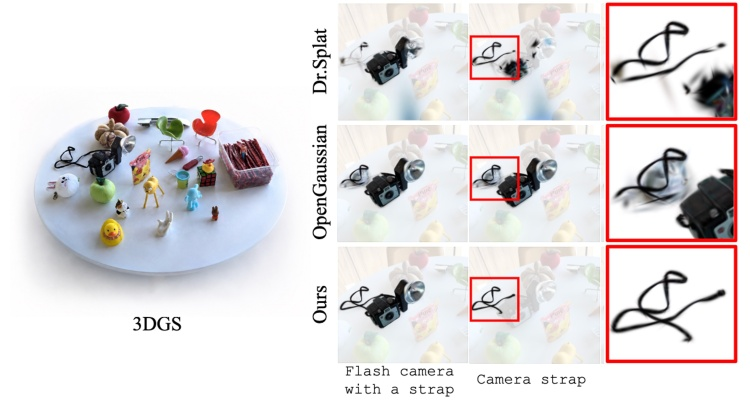
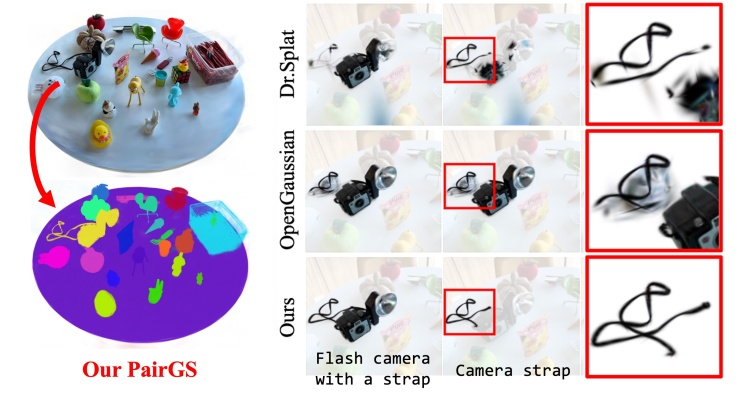
update/fix publications

diff --git a/publications.html b/publications.html
@@ -75,6 +75,7 @@
 				<em>Winter Conf. on Applications of Computer Vision (<b>WACV</b>), 2027</em>
 			</p>
 			<p>
+				<a href="https://knt0613pow.github.io/DCF-3DGS" target="_blank" class="btn btn-outline-secondary btn-sm" role="button"> Project Page</a>
 				<a class="btn btn-outline-secondary btn-sm" role="button" data-bs-toggle="collapse" data-bs-target="#Kim_DistractorAware_WACV_2027_bibtex_button" aria-expanded="false" aria-controls="Kim_DistractorAware_WACV_2027_bibtex_button">BibTeX</a>
 			</p>
 			<div class="collapse" id="Kim_DistractorAware_WACV_2027_bibtex_button">
@@ -137,6 +138,32 @@
 
 <div class="container">
 	<div class="row gx-5 gy-4">
+		<div class="col-lg-4 text-center" id="Park_MixPT_arXiv_2026">
+			<img src="publications/data/26_arxiv11.jpg" class="img-fluid rounded float-center img-thumbnail shadow mb-3">
+			<h4 class="em-tight">MixPT: Point Transformer with Interleaved Window and Global Attention</h4>
+			<p class="text-muted">
+				and Minkyun Seo, Hyungtae Lim, <b>Jaesik Park</b>.
+				<em>2610.31455 (arXiv), 2026</em>
+			</p>
+			<p>
+				<a href="https://minkyunseo.github.io/MixPT" target="_blank" class="btn btn-outline-secondary btn-sm" role="button"> Project Page</a>
+				<a class="btn btn-outline-secondary btn-sm" role="button" data-bs-toggle="collapse" data-bs-target="#Park_MixPT_arXiv_2026_bibtex_button" aria-expanded="false" aria-controls="Park_MixPT_arXiv_2026_bibtex_button">BibTeX</a>
+			</p>
+			<div class="collapse" id="Park_MixPT_arXiv_2026_bibtex_button">
+				<div class="card">
+					<div class="card-body">
+						<p class="card-text text-start fw-lighter">
+							@article{Park_MixPT_arXiv_2026,<br>
+							Title={MixPT: Point Transformer with Interleaved Window and Global Attention},<br>
+							Author={Minkyun Seo, Hyungtae Lim, Jaesik Park},<br>
+							Journal={2610.31455 (arXiv)},<br>
+							Year={2026}<br>
+							}
+						</p>
+					</div>
+				</div>
+			</div>
+		</div>
 		<div class="col-lg-4 text-center" id="Lee_Beyond_arXiv_2026">
 			<img src="publications/data/26_arxiv10.jpg" class="img-fluid rounded float-center img-thumbnail shadow mb-3">
 			<h4 class="em-tight">Beyond the Current Scene: Event-Referential Grasping with Active View Selection</h4>
@@ -1020,7 +1047,7 @@
 		</div>
 		<div class="col-lg-4 text-center" id="Seo_BUFFERX_ICCV_2025">
 			<img src="publications/data/25_arxiv2.jpg" class="img-fluid rounded float-center img-thumbnail shadow mb-3">
-			<h4 class="em-tight">BUFFER-X: Towards Zero-Shot Point Cloud Registration in Diverse Scenes</h4>
+			<h4 class="em-tight">BUFFER-X: Toward Zero-Shot Point Cloud Registration in Diverse Scenes</h4>
 			<p class="text-muted">
 				Minkyun Seo*, Hyungtae Lim*, Kanghee Lee, Luca Carlone, and <b>Jaesik Park</b>.
 				<em>Int. Conf. on Computer Vision (<b>ICCV</b>), 2025</em>
@@ -1037,7 +1064,7 @@
 					<div class="card-body">
 						<p class="card-text text-start fw-lighter">
 							@inproceedings{Seo_BUFFERX_ICCV_2025,<br>
-							Title={BUFFER-X: Towards Zero-Shot Point Cloud Registration in Diverse Scenes},<br>
+							Title={BUFFER-X: Toward Zero-Shot Point Cloud Registration in Diverse Scenes},<br>
 							Author={Minkyun Seo and Hyungtae Lim and Kanghee Lee and Luca Carlone and Jaesik Park},<br>
 							Booktitle={Proceedings of the Int. Conf. on Computer Vision (ICCV)},<br>
 							Year={2025}<br>
